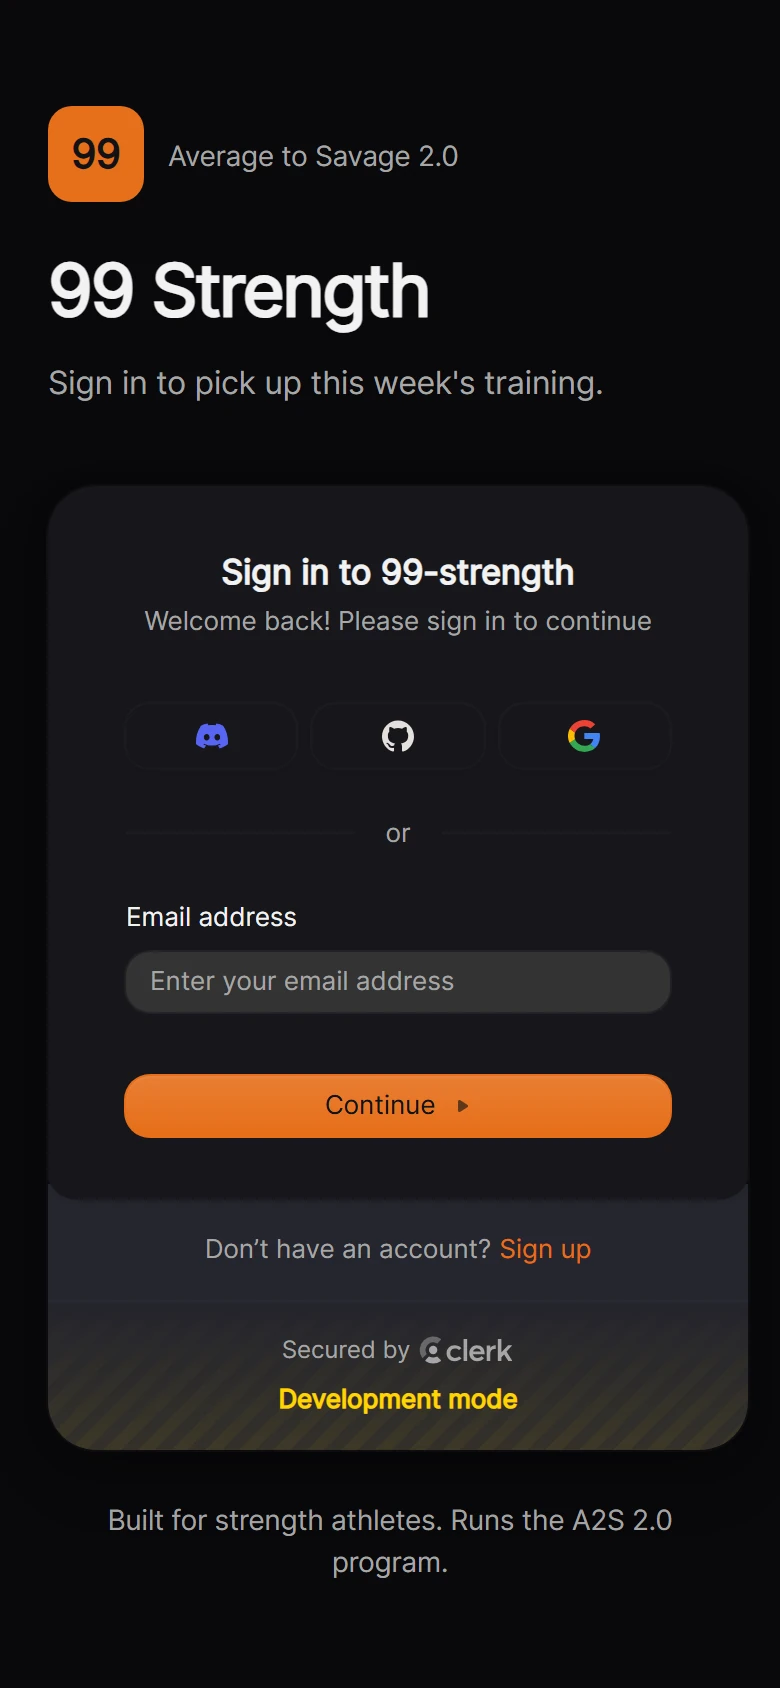
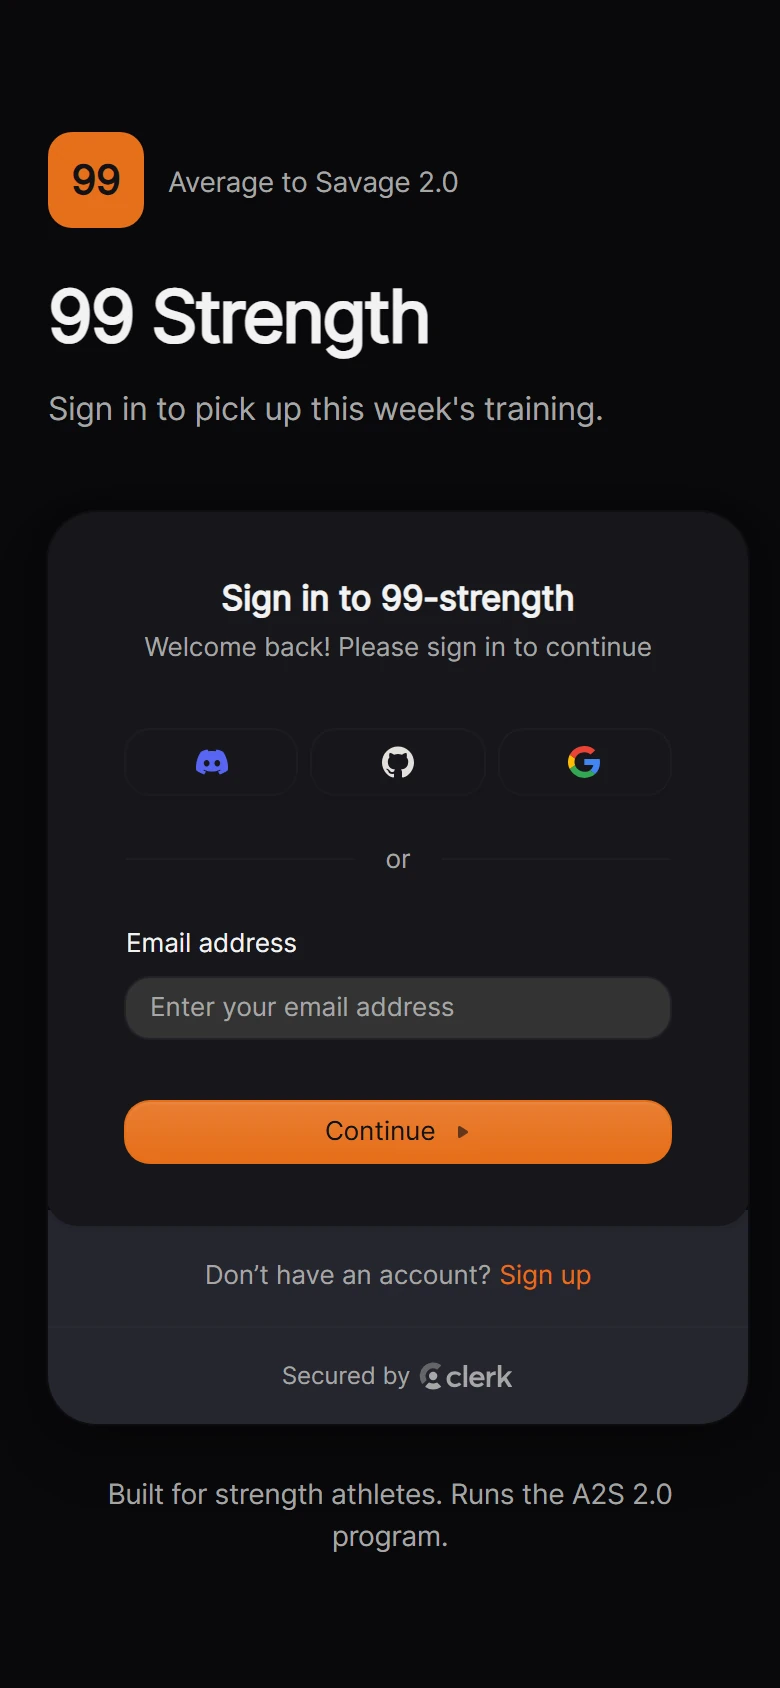
Showcase: phone shots for nine more screens, no Clerk dev badge
Adds 390px captures for the completion summary, one-rep max, exercise
progress, squat history, program overview, template step, exercise
library, Hevy sync and Hevy workouts. Setup-exercises and the simulator
are left out: their phone layouts truncate names and squash the charts.

Storybook's ClerkProvider turns off the development-mode footer, so the
sign-in shots look like production. The README table is now written from
the shot list, so a filtered run keeps it complete.

diff --git a/src/A2S.Web/src/mocks/storybook.tsx b/src/A2S.Web/src/mocks/storybook.tsx
@@ -77,7 +77,13 @@ export function AppProviders({
   );
 
   return clerk === 'real' ? (
-    <ClerkProvider publishableKey={STORYBOOK_CLERK_KEY} afterSignOutUrl="/sign-in">
+    // The Storybook key is a development instance; drop Clerk's "Development mode" footer
+    // so the screenshots look like the production sign-in.
+    <ClerkProvider
+      publishableKey={STORYBOOK_CLERK_KEY}
+      afterSignOutUrl="/sign-in"
+      appearance={{ layout: { unsafe_disableDevelopmentModeWarnings: true } }}
+    >
       {tree}
     </ClerkProvider>
   ) : (

diff --git a/src/A2S.Web/showcase/README.md b/src/A2S.Web/showcase/README.md
@@ -29,3 +29,12 @@ are relative to the day you run it.
 | `phone-session.webp` | 780×1688 | Set logging on a phone. | `pages-workout-session--logging-sets` |
 | `phone-history.webp` | 780×1688 | The training calendar on a phone: a week per row. | `pages-history--overview` |
 | `phone-sign-in.webp` | 780×1688 | Sign-in on a phone. | `pages-sign-in--default` |
+| `phone-session-complete.webp` | 780×1688 | The completion summary on a phone. | `features-workout-completion-summary--bench-day-complete` |
+| `phone-one-rep-max.webp` | 780×1688 | Estimated one-rep max on a phone. | `pages-history--overview` |
+| `phone-exercise-progress.webp` | 780×1688 | Per-exercise progress on a phone. | `pages-history--exercise-progress` |
+| `phone-exercise-history.webp` | 780×1688 | Squat history on a phone. | `pages-exercise-library--squat-history` |
+| `phone-program-overview.webp` | 780×1688 | Program overview on a phone. | `pages-workout--mid-program` |
+| `phone-setup-template.webp` | 780×1688 | Setup wizard, template step, on a phone. | `pages-setup-wizard--choose-template` |
+| `phone-exercise-library.webp` | 780×1688 | Exercise library on a phone. | `pages-exercise-library--grouped` |
+| `phone-hevy-sync.webp` | 780×1688 | Hevy integration on a phone. | `pages-hevy--connected` |
+| `phone-hevy-workouts.webp` | 780×1688 | Workouts from Hevy on a phone. | `pages-hevy-data--synced-workouts` |
